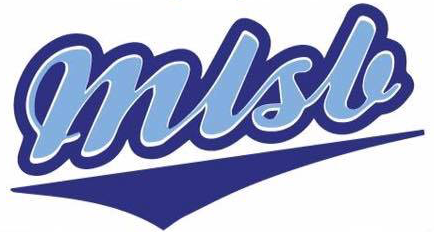
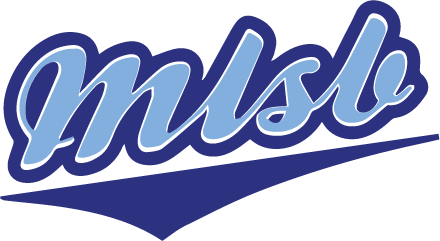
topbar

diff --git a/api/static/css/main.css b/api/static/css/main.css
@@ -59,6 +59,25 @@ body {
     font-size: 14px;
 }
 
+.navbar {
+    border-top: 0;
+    border-bottom: 1px solid #dcdcdc;
+}
+
+.navbar .container .navbar-brand {
+    padding: 6px 0px;
+}
+
+.navbar .container .navbar-brand img {
+    width: auto;
+    height: 100%;
+    margin-right:5px;
+}
+
+.navbar .container .navbar-nav {
+    font-size: 12px;
+}
+
 
 p.primary{
   color:#FFFFFF;
@@ -108,17 +127,6 @@ p.accent{
 .sapporo{
   color: #F4C92D;
 }
-
-.mainBanner {
-  width: 100%;
-  max-width: 60px;
-  height:100%;
-  max-height:150px;
-  float:left;
-  margin-right:5px;
-}
-
-
 
 hr {
   border-top: 1px solid #e5e5e5;
@@ -175,15 +183,6 @@ a:focus {
 
 .media>.pull-right{
   margin-left: 20px;
-}
-
-body > section {
-  padding: 70px 0;
-}
-
-.center {
-  text-align: center;
-  padding-bottom: 55px;
 }
 
 .scaleIn {

diff --git a/api/templates/website/new-base.html b/api/templates/website/new-base.html
@@ -72,7 +72,7 @@
                         <span class="icon-bar"></span>
                     </button>
                     <a class="navbar-brand" href="{{route.homepage}}/{{year}}">
-                        <img src="{{ url_for('static', filename="banner.png")}}" class="mainBanner">
+                        <img src="{{ url_for('static', filename="banner.png")}}">
                     </a>
                 </div>
 
@@ -91,11 +91,11 @@
 
     </header><!--/header-->
 
-    <section id="bottom">
+    <section>
         <div class="container">
             <div class="row">
                 <div class="col-xs-12 mainBlock">
-                    <h2 class="mainTitle">
+                    <h2 class="">
                         {{title}}
                     </h2>
                     {% block content %}{% endblock %}
